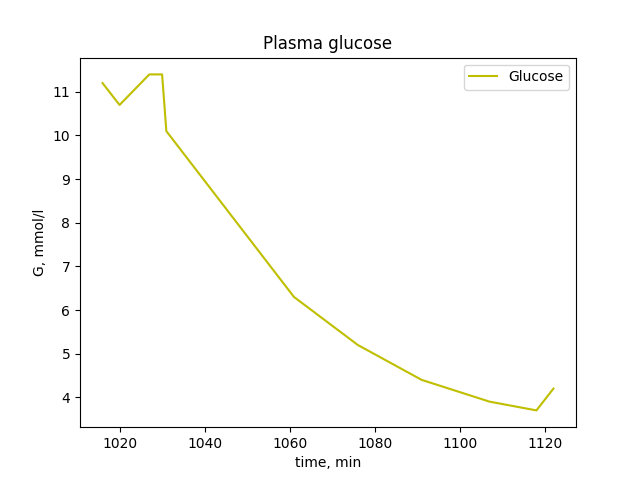
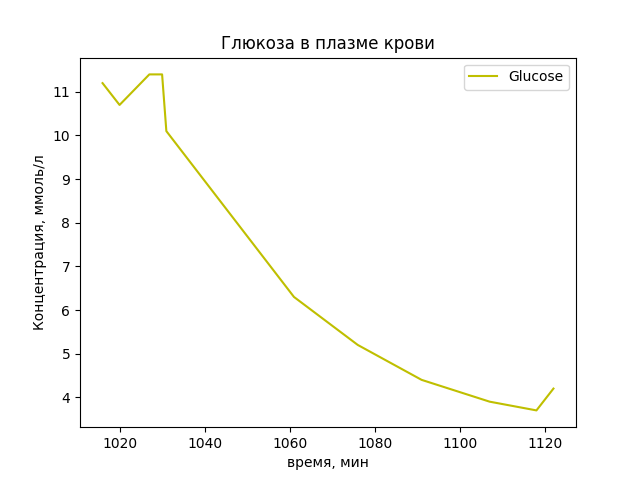
Updated plot building

Changed region(s): [[0.3438, 0.0625, 0.6875, 0.125], [0.0312, 0.3438, 0.0938, 0.6875], [0.4375, 0.9375, 0.5938, 1.0]]

diff --git a/functions.py b/functions.py
@@ -116,16 +116,16 @@ def get_updated_init_conditions(x, food, insulin):
         x[-1,9], x[-1,10], x[-1,11], x[-1,12], x[-1,13]
     ]
 
-def print_graphs(x, t, name ,real=None):
+def print_graphs(x, t, name, real=None, food=None, insulin=None):
     
     Gp = x[:,0] # Масса глюкозы в плазме и быстро-наполняюющихся тканях, mg/kg
     Gt = x[:,1] # Масса глюкозы в медленно-наполняющихся тканях, mg/kg
     Gres = G(0, Gp) # Концентрация глюкозы в плазме
     if not real:
-        plt.plot(t, Gres / MG_DL_TO_MMOL_L_CONVENTION_FACTOR, label='Plasma glucose', color='r')
-        plt.title('Plasma glucose, mmol/l')
-        plt.ylabel('G, mmol/l')
-        plt.xlabel('time, min')
+        plt.plot(t, Gres / MG_DL_TO_MMOL_L_CONVENTION_FACTOR, label='Глюкоза в плазме', color='r')
+        plt.title('Глюкоза в плазме крови, ммоль/л')
+        plt.ylabel('Концентрация, ммоль/л')
+        plt.xlabel('время, мин')
         plt.legend()
         # plt.show()
         plt.savefig(os.path.join('results','bg_model',f'bg_model_{name}.png'))
@@ -143,11 +143,28 @@ def print_graphs(x, t, name ,real=None):
         mape = mean_absolute_percentage_error(real_data / MG_DL_TO_MMOL_L_CONVENTION_FACTOR, Gres / MG_DL_TO_MMOL_L_CONVENTION_FACTOR)
         print(f'MAPE: {mape}')
 
-        plt.plot(t, Gres / MG_DL_TO_MMOL_L_CONVENTION_FACTOR, label='Plasma glucose model', color='r')
-        plt.plot(t, real_data, label='Plasma glucose real', color='b')
-        plt.title('Plasma glucose, mmol/l')
-        plt.ylabel('G, mmol/l')
-        plt.xlabel('time, min')
+        plt.plot(t, Gres / MG_DL_TO_MMOL_L_CONVENTION_FACTOR, label='Глюкоза в плазме (модель)', color='r')
+        plt.plot(t, real_data, label='Глюкоза в плазме (реальная)', color='b')
+        plt.title('Глюкоза в плазме крови, ммоль/л')
+        plt.ylabel('Концентрация, ммоль/л')
+        plt.xlabel('время, мин')
+
+        bottom, top = plt.ylim()
+        food_y_text = (bottom + top) / 2
+        ins_y_text = bottom + (top - bottom) / 4
+
+        # 1 μIU/mL = 6.00 pmol/L
+        # https://www.ncbi.nlm.nih.gov/pmc/articles/PMC6501531/s
+
+        if food:
+            plt.axvline(x=food[0], c='orange', ymax=1.0, lw=1)
+            food_info = "Прием пищи\n({} мг.)".format(food[1])
+            plt.text(food[0] + 7, food_y_text, food_info, rotation=90, fontsize=9, ha='center')
+        if insulin:
+            plt.axvline(x=insulin[0], c='cyan', ymax=1.0, lw=1)
+            ins_info = 'Введение инсулина\n({:.2f} ед.)'.format(insulin[1] * (kd + ka1) / 6.00)
+            plt.text(insulin[0] + 4, ins_y_text, ins_info, rotation=90, fontsize=9, ha='center')
+
         plt.legend()
         # plt.show()
         plt.savefig(os.path.join('results','bg_compare',f'bg_compare_{name}.png'))

diff --git a/analytics/analytics.py b/analytics/analytics.py
@@ -46,9 +46,9 @@ def plot_glucose(glucose_info, show_plot=True):
 
         if show_plot:
             plt.plot(final_time_list, final_glucose_list, label='Glucose', color='y')
-            plt.title('Plasma glucose')
-            plt.ylabel('G, mmol/l')
-            plt.xlabel('time, min')
+            plt.title('Глюкоза в плазме крови')
+            plt.ylabel('Концентрация, ммоль/л')
+            plt.xlabel('время, мин')
             plt.legend()
             # plt.show()
             plt.savefig(os.path.join('results','bg_real',f'bg_real_{info["name"]}.png'))
@@ -73,9 +73,9 @@ def plot_hr(heart_rate_info, show_plot=True):
         
         if show_plot:
             plt.plot(t_arr, hr_arr, label='HR', color='r')
-            plt.title('HR')
-            plt.ylabel('bpm')
-            plt.xlabel('time, min')
+            plt.title('Частота сердечных сокращений')
+            plt.ylabel('ЧСС, уд./мин')
+            plt.xlabel('время, мин')
             plt.legend()
             #plt.show()
             plt.savefig(os.path.join('results','hr',f'hr_{info["name"]}.png'))
@@ -135,10 +135,10 @@ CARB_INTAKE = [
 ]
 # [dose, time]
 INSULIN_INTAKE = [
-    [250, 0],  #250
+    [int(1.0 / (0.0164 + 0.0018) * 6.0), 0],  #250  300
     [0, 0], 
     [0, 0], 
-    [200, 0],  # [0, 0]
+    [int(1.0 / (0.0164 + 0.0018) * 6.0), 0],  # [0, 0]  # 200 300     1 / (ka1 + kd) * 6 =  kd = 0.0164  # скорость диссоциации инсулина, 1/min ka1 = 0.0018
     [0, 0], 
     [0, 75],  # [0, 0] 
     [0, 0]

diff --git a/model.py b/model.py
@@ -211,7 +211,14 @@ def test_on_text_data():
             HRb=float(line[14])  # базальное значение ЧСС
         )
         real = real.split(',')
-        print_graphs(res, t, counter, real)
+        food = None
+        insulin = None
+        if int(line[3]):
+            food = (int(line[8]), int(line[3]))
+        if int(line[6]):
+            insulin = (int(line[9]), int(line[6]))
+
+        print_graphs(res, t, counter, real, food, insulin)
 
 
 if __name__ == "__main__":
